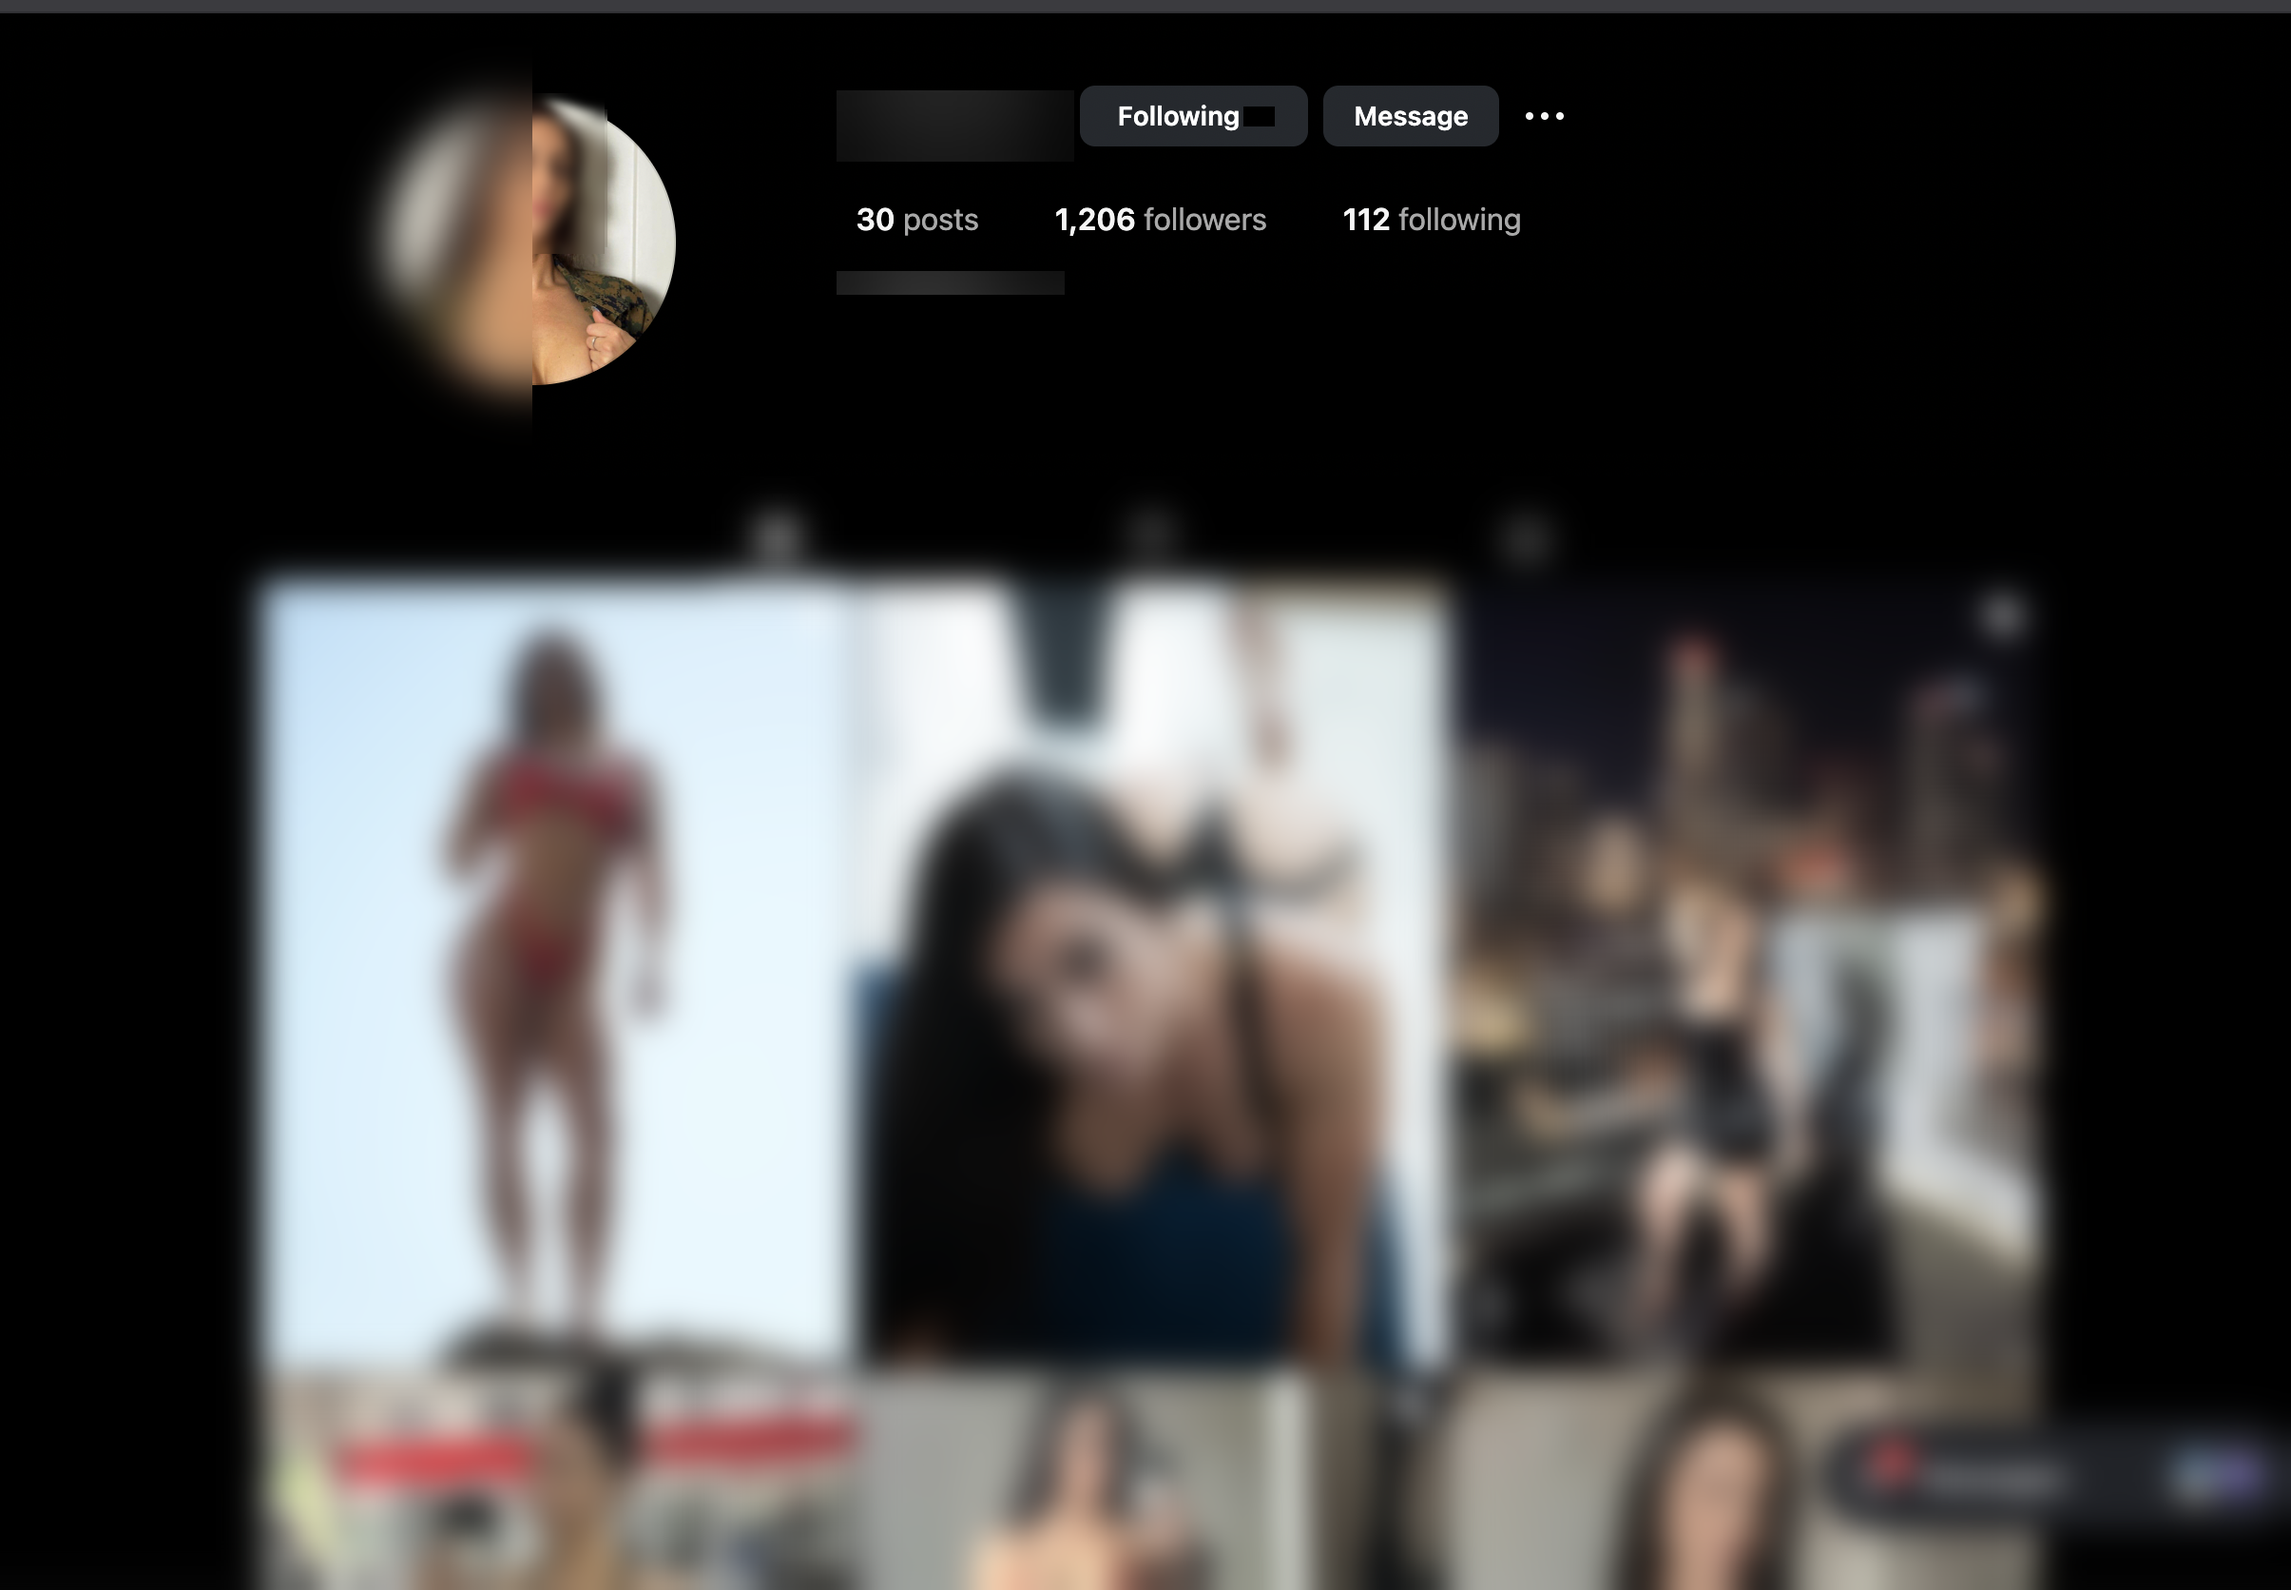
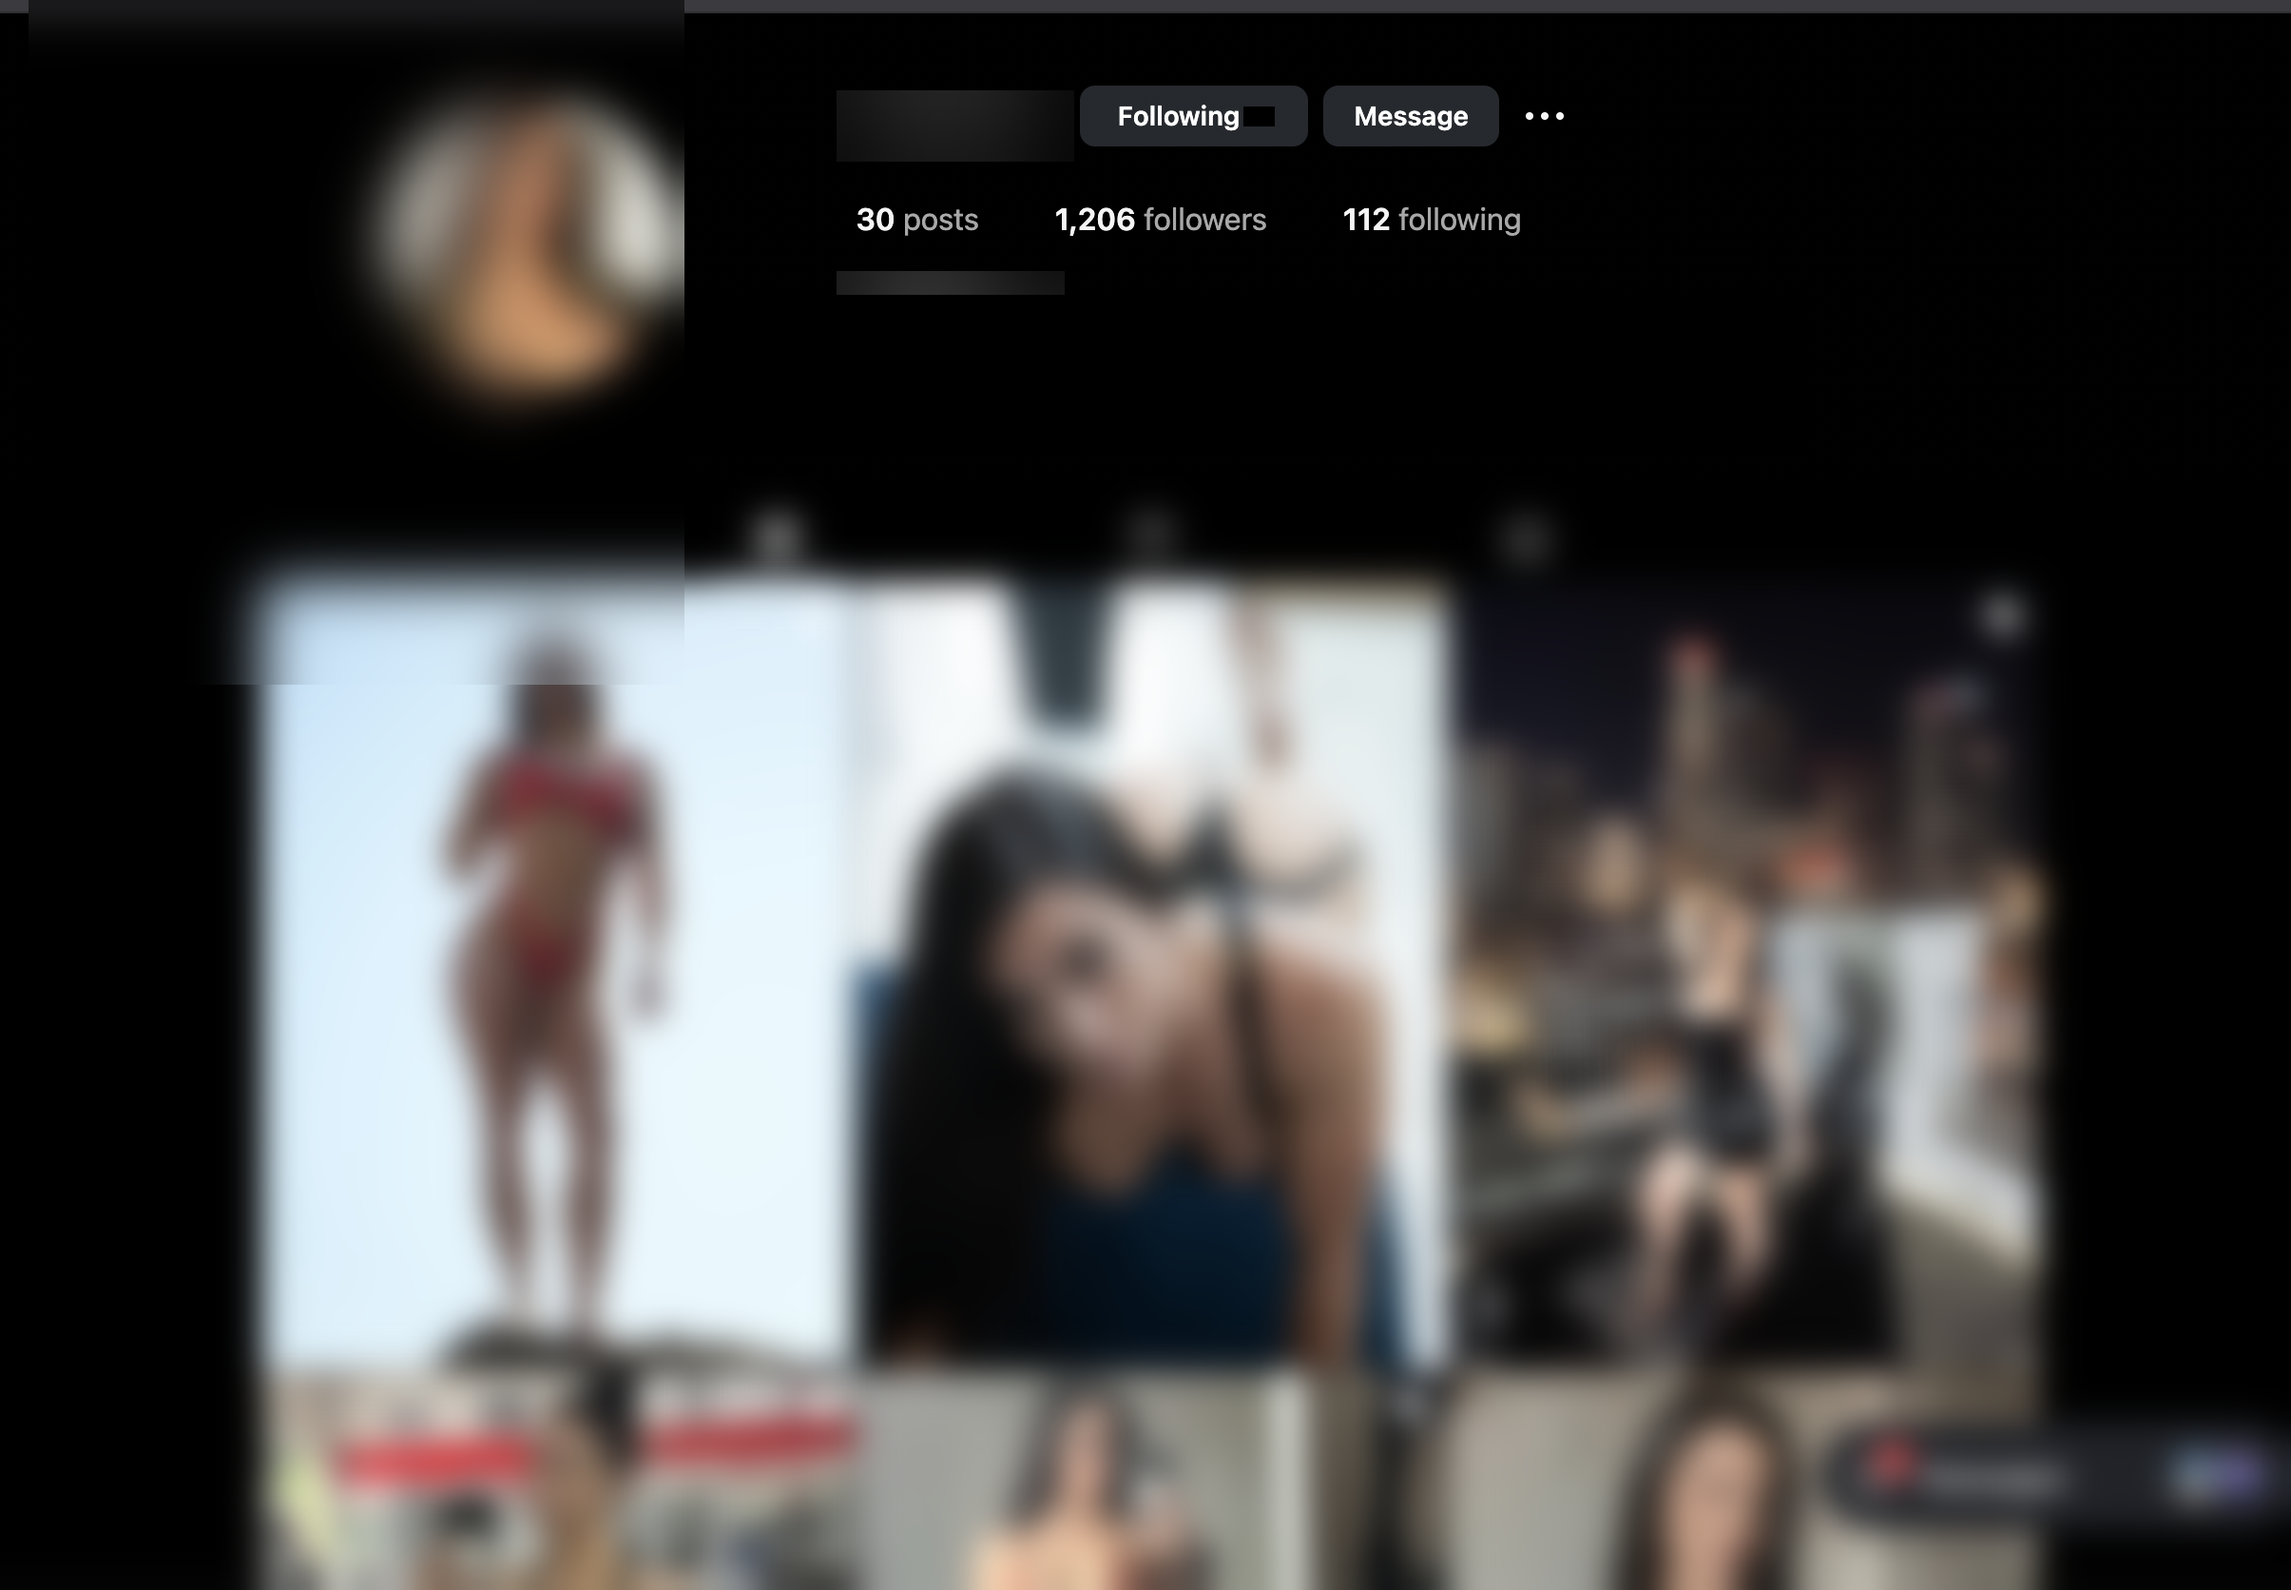
fix(i18n): force English default + disable browser auto-translate

Changed region(s): [[0.0, 0.0, 0.3112, 0.2799], [0.0934, 0.3421, 0.3112, 0.4354]]

diff --git a/terms.html b/terms.html
@@ -1,6 +1,8 @@
 <!DOCTYPE html>
-<html lang="en" id="root-html">
+<html lang="en" translate="no" id="root-html">
 <head>
+  <meta name="google" content="notranslate">
+  <meta http-equiv="content-language" content="en">
   <meta charset="UTF-8" />
   <meta name="viewport" content="width=device-width, initial-scale=1.0" />
   <title data-en="FERAL | Terms of Service" data-es="FERAL | Términos del Servicio">FERAL | Terms of Service</title>

diff --git a/privacy.html b/privacy.html
@@ -1,6 +1,8 @@
 <!DOCTYPE html>
-<html lang="en" id="root-html">
+<html lang="en" translate="no" id="root-html">
 <head>
+  <meta name="google" content="notranslate">
+  <meta http-equiv="content-language" content="en">
   <meta charset="UTF-8" />
   <meta name="viewport" content="width=device-width, initial-scale=1.0" />
   <title data-en="FERAL | Privacy Policy" data-es="FERAL | Política de Privacidad">FERAL | Privacy Policy</title>

diff --git a/lang-toggle.css b/lang-toggle.css
@@ -6,7 +6,10 @@
    data-en-placeholder / data-es-placeholder on inputs and
    data-en / data-es on <option> elements. */
 
-html[lang="en"] .t-es { display: none; }
+/* Default to English: Spanish strings are hidden until the visitor opts into
+   Spanish via the toggle (which sets html[lang="es"]). */
+.t-es { display: none; }
+html[lang="es"] .t-es { display: inline; }
 html[lang="es"] .t-en { display: none; }
 
 .lang-switch {

diff --git a/book-call.html b/book-call.html
@@ -1,6 +1,8 @@
 <!DOCTYPE html>
-<html lang="en" id="root-html">
+<html lang="en" translate="no" id="root-html">
 <head>
+  <meta name="google" content="notranslate">
+  <meta http-equiv="content-language" content="en">
   <meta charset="UTF-8" />
   <meta name="viewport" content="width=device-width, initial-scale=1.0" />
   <title data-en="FERAL | Book your call" data-es="FERAL | Reserva tu llamada">FERAL | Book your call</title>

diff --git a/booked.html b/booked.html
@@ -1,6 +1,8 @@
 <!DOCTYPE html>
-<html lang="en" id="root-html">
+<html lang="en" translate="no" id="root-html">
 <head>
+  <meta name="google" content="notranslate">
+  <meta http-equiv="content-language" content="en">
   <meta charset="UTF-8" />
   <meta name="viewport" content="width=device-width, initial-scale=1.0" />
   <title data-en="FERAL | Call confirmed" data-es="FERAL | Llamada confirmada">FERAL | Call confirmed</title>

diff --git a/book.html b/book.html
@@ -1,6 +1,8 @@
 <!DOCTYPE html>
-<html lang="en" id="root-html">
+<html lang="en" translate="no" id="root-html">
 <head>
+  <meta name="google" content="notranslate">
+  <meta http-equiv="content-language" content="en">
   <meta charset="UTF-8" />
   <meta name="viewport" content="width=device-width, initial-scale=1.0" />
   <title data-en="FERAL | Book a Call" data-es="FERAL | Reserva una llamada">FERAL | Book a Call</title>

diff --git a/not-qualified.html b/not-qualified.html
@@ -1,6 +1,8 @@
 <!DOCTYPE html>
-<html lang="en" id="root-html">
+<html lang="en" translate="no" id="root-html">
 <head>
+  <meta name="google" content="notranslate">
+  <meta http-equiv="content-language" content="en">
   <meta charset="UTF-8" />
   <meta name="viewport" content="width=device-width, initial-scale=1.0" />
   <title data-en="FERAL | Thank you" data-es="FERAL | Gracias">FERAL | Thank you</title>

diff --git a/apply-ascension.html b/apply-ascension.html
@@ -1,6 +1,8 @@
 <!DOCTYPE html>
-<html lang="en" id="root-html">
+<html lang="en" translate="no" id="root-html">
 <head>
+  <meta name="google" content="notranslate">
+  <meta http-equiv="content-language" content="en">
   <meta charset="UTF-8" />
   <meta name="viewport" content="width=device-width, initial-scale=1.0" />
   <title>Apply to FERAL Ascension</title>

diff --git a/ascension.html b/ascension.html
@@ -1,6 +1,8 @@
 <!DOCTYPE html>
-<html lang="en" id="root-html">
+<html lang="en" translate="no" id="root-html">
 <head>
+  <meta name="google" content="notranslate">
+  <meta http-equiv="content-language" content="en">
   <meta charset="UTF-8" />
   <meta name="viewport" content="width=device-width, initial-scale=1.0" />
   <title>FERAL Ascension | Apply</title>

diff --git a/index.html b/index.html
@@ -1,6 +1,8 @@
 <!DOCTYPE html>
-<html lang="en">
+<html lang="en" translate="no">
 <head>
+  <meta name="google" content="notranslate">
+  <meta http-equiv="content-language" content="en">
   <meta charset="UTF-8" />
   <meta name="viewport" content="width=device-width, initial-scale=1.0" />
   <script>document.documentElement.classList.add("js");</script>

diff --git a/creative-team.html b/creative-team.html
@@ -1,6 +1,8 @@
 <!DOCTYPE html>
-<html lang="en">
+<html lang="en" translate="no">
 <head>
+  <meta name="google" content="notranslate">
+  <meta http-equiv="content-language" content="en">
   <meta charset="UTF-8" />
   <meta name="viewport" content="width=device-width, initial-scale=1.0" />
   <title>Creative Director | FERAL</title>

diff --git a/careers.html b/careers.html
@@ -1,6 +1,8 @@
 <!DOCTYPE html>
-<html lang="en">
+<html lang="en" translate="no">
 <head>
+  <meta name="google" content="notranslate">
+  <meta http-equiv="content-language" content="en">
   <meta charset="UTF-8" />
   <meta name="viewport" content="width=device-width, initial-scale=1.0" />
   <title>Join Our Team | FERAL</title>
